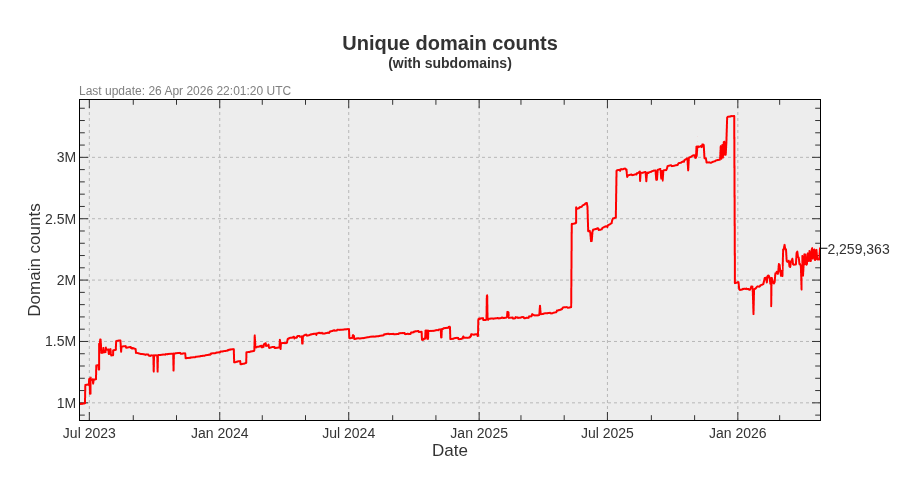
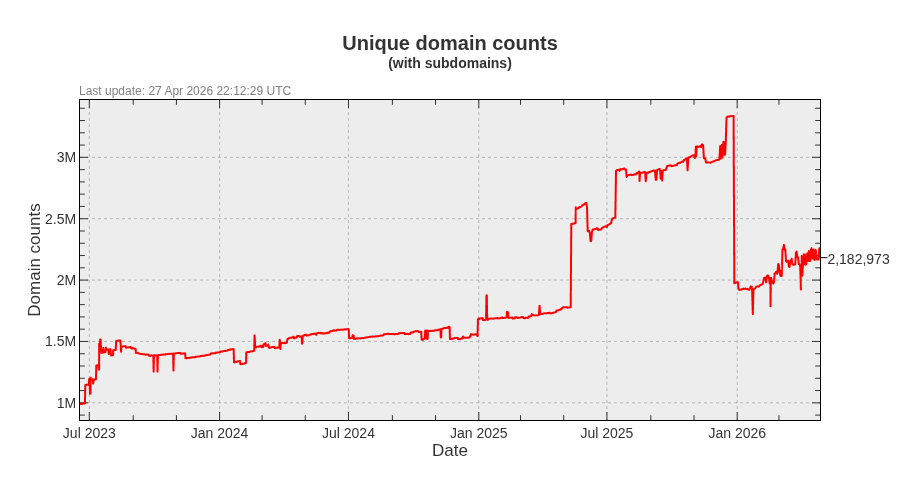
Update pages

diff --git a/README.md b/README.md
@@ -3,22 +3,22 @@ A blocklist file for blocking ads, trackers and malware domains.
 
[1 lines of base64/hex data omitted]
 
-- Unique domains: 2,259,363
-- Without subdomains: 1,590,459
-- Last update: 26 Apr 2026 22:01:20 UTC
-- Version: 2026.04.26.01
+- Unique domains: 2,182,973
+- Without subdomains: 1,519,497
+- Last update: 27 Apr 2026 22:12:29 UTC
+- Version: 2026.04.27.01
 
 
 ## Downloads:
 
 | Format             | Domain count      | Download Link |
 |------------------ | -----------------|-------------|
-| *Adblock Plus*     | 1,590,459 | [bad-hosts-abp](https://dl.cenk.app/bad-hosts/bad-hosts-abp) |
-| *Wildcard domains* | 1,590,459 | [bad-hosts-wildcard](https://dl.cenk.app/bad-hosts/bad-hosts-wildcard) |
-| *dnsmasq*          | 1,590,459 | [bad-hosts-dnsmasq](https://dl.cenk.app/bad-hosts/bad-hosts-dnsmasq) |
-| *hosts*            | 2,259,363 | [hosts](https://dl.cenk.app/bad-hosts/hosts) |
-| *hosts (ipv6)*     | 2,259,363 | [hosts-ipv6](https://dl.cenk.app/bad-hosts/hosts-ipv6) |
-| *Plain domains*    | 2,259,363 | [bad-hosts-domains](https://dl.cenk.app/bad-hosts/bad-hosts-domains) |
+| *Adblock Plus*     | 1,519,497 | [bad-hosts-abp](https://dl.cenk.app/bad-hosts/bad-hosts-abp) |
+| *Wildcard domains* | 1,519,497 | [bad-hosts-wildcard](https://dl.cenk.app/bad-hosts/bad-hosts-wildcard) |
+| *dnsmasq*          | 1,519,497 | [bad-hosts-dnsmasq](https://dl.cenk.app/bad-hosts/bad-hosts-dnsmasq) |
+| *hosts*            | 2,182,973 | [hosts](https://dl.cenk.app/bad-hosts/hosts) |
+| *hosts (ipv6)*     | 2,182,973 | [hosts-ipv6](https://dl.cenk.app/bad-hosts/hosts-ipv6) |
+| *Plain domains*    | 2,182,973 | [bad-hosts-domains](https://dl.cenk.app/bad-hosts/bad-hosts-domains) |
 
 ## Domain count history
 ### With subdomains